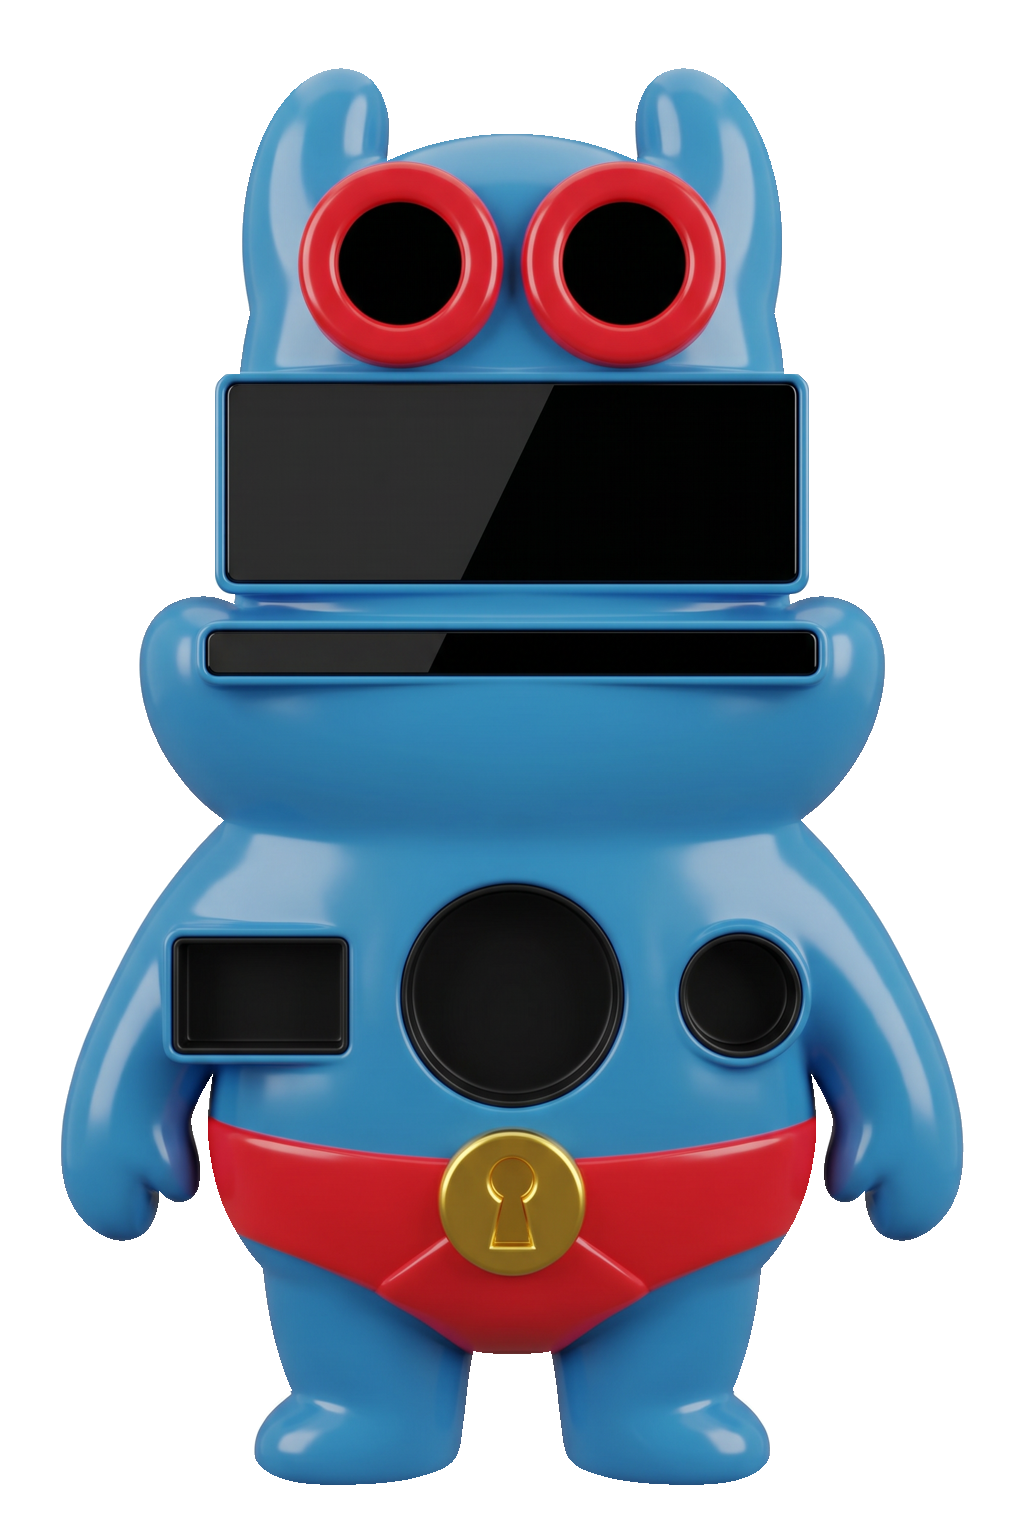
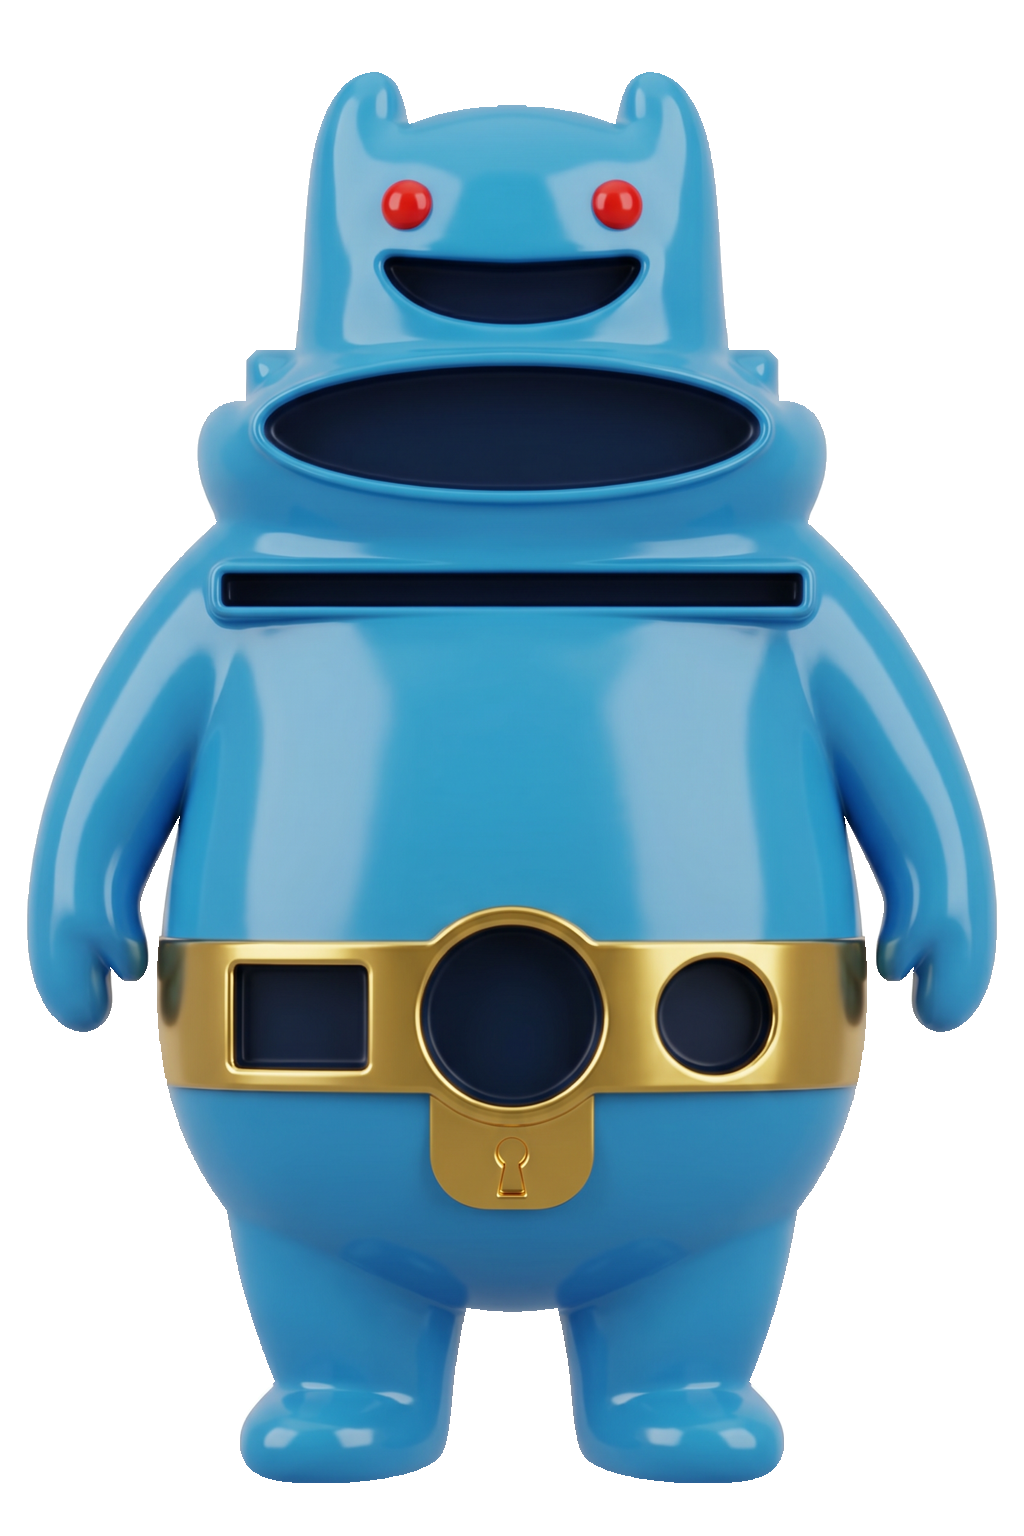
Man Ray: cute baby body, all-red eyes, teeth-grin EQ mouth, gold belt transport
Regenerated the body with small high-set all-red eyes and an open dark mouth
cavity so the red teeth-grin visualizer reads as a grinning mouth instead of a
black square. Transport is now gold molded sprites (shuffle / play-pause / next)
set into the gold keyhole belt; no scrub. Man Ray gets its own gold sprite set
and palette (manray.css) instead of borrowing WMP.

- wild_sculpt.py MATERIAL[manray]: small high all-red eyes + explicit empty dark
  mouth slot below them, gold belt holding the buttons
- gen_sprites.py: gold material for manray switch/button/knob/thumb
- gold molded transport (btn-*) + sprite set generated under public/skins/manray/sprites
- skins.ts: manray is its own style (sprites+molded), corrected blurb
- src/skins/manray.css: gold/red palette; imported in all.ts
- ASSET_VERSION nb20

diff --git a/src/player/skins.ts b/src/player/skins.ts
@@ -55,10 +55,10 @@ export const skinList: SkinAssets[] = [
   { id: "winamp",  name: "Winamp Classic", blurb: "", has: ["frame"], sprites: true, molded: true, hidden: true },
   { id: "toilet",  name: "Porcelain",      blurb: "", has: ["frame"], sprites: true, molded: true, hidden: true },
 
-  // SpongeBob villain — manta-ray head, wide visualizer, lightning-bolt scrub,
-  // shuffle · play · next. Borrows the WMP aqua palette/sprites (cyan suits the
-  // Man Ray emblem). Generated by `wild_sculpt.py manray manray … manray`.
-  { id: "manray",  name: "Man Ray ✦",      blurb: "SpongeBob villain: manta-ray head, lightning scrub", has: ["frame"], live: true, style: "wmp", templateUrl: "/skins/manray/template.json" },
+  // Baby blue creature — red goggle eyes, gold belt, red teeth-grin visualizer,
+  // gold molded transport (shuffle · play · next). Own gold sprites + palette.
+  // Generated by `wild_sculpt.py manray manray … manray` + gold sprite passes.
+  { id: "manray",  name: "Man Ray ✦",      blurb: "Baby blue creature: red goggle eyes, gold belt, teeth-grin EQ", has: ["frame"], live: true, sprites: true, molded: true, templateUrl: "/skins/manray/template.json" },
 
   // absurd ✦ — memetic styles with their own sprites + palettes
   { id: "frog",    name: "Froggo ✦",        blurb: "Glossy rubber meme-frog, orange-dot hardware", has: ["frame"], live: true, sprites: true, molded: true, templateUrl: "/skins/frog/template.json" },
@@ -110,7 +110,7 @@ export function skinBaked(id: string): boolean {
 }
 
 // bump when frames/sprites are regenerated so browsers re-fetch
-const ASSET_VERSION = "nb19";
+const ASSET_VERSION = "nb20";
 const base = (id: string) => `/skins/${id}`;
 export const layerUrl = (id: string, layer: Layer) => `${base(id)}/${layer}.png?v=${ASSET_VERSION}`;
 export const spriteUrl = (id: string, name: string) => `${base(skinStyle(id))}/sprites/${name}.png?v=${ASSET_VERSION}`;

diff --git a/src/skins/manray.css b/src/skins/manray.css
@@ -1,0 +1,18 @@
+[data-skin="manray"] {
+  --ui-font: "Tahoma", "Segoe UI", sans-serif;
+  --lcd-font: "Share Tech Mono", monospace; --ink: #7a1010;
+  --lcd-bg: linear-gradient(180deg,#1a0606,#2a0a0a); --lcd-ink: #ffd9d2; --lcd-ink-dim: #c8857e;
+  --lcd-glow: 0 0 6px rgba(255,90,76,.4); --lcd-radius: 12px;
+  --lcd-inset: inset 0 2px 6px rgba(20,0,0,.6); --lcd-border: 1px solid #b8862f;
+  /* teeth visualizer hardcodes its reds; these cover any linear fallback */
+  --vis-lo: #7d0f0f; --vis-hi: #ff5a4c; --vis-peak: #ffd9d2;
+  --btn-ink: #5a3a06; --sp-btn-ink: #4a2f04; --btn-radius: 50%;
+  --btn-bg: radial-gradient(80% 80% at 50% 28%, #ffe9a8, #d9a23a 75%);
+  --btn-shadow: inset 0 1px 0 #fff3cf, inset 0 0 0 1px rgba(120,80,20,.55), 0 2px 3px rgba(40,20,0,.35);
+  --toggle-on-spark: #ff5a4c; --knob-ind: #d9a23a; --knob-ind-glow: rgba(255,200,90,.7);
+  --rail-bg: #c2a25a; --fill-bg: #ff5a4c; --thumb-bg: linear-gradient(180deg,#ffe9a8,#d9a23a);
+  --thumb-arc: #ff5a4c;
+  --thumb-shadow: inset 0 1px 0 #fff3cf, 0 2px 3px rgba(0,0,0,.3); --thumb-w: 16px; --thumb-h: 12px;
+  --list-ink: #ffd9d2; --list-sel-bg: #c91f1f; --list-sel-ink: #fff;
+  --title-ink: #ffe9a8;
+}

diff --git a/src/skins/all.ts b/src/skins/all.ts
@@ -12,3 +12,4 @@ import "./toilet.css";
 import "./biomech.css";
 import "./wmp.css";
 import "./halo.css";
+import "./manray.css";

diff --git a/generation/wild_sculpt.py b/generation/wild_sculpt.py
@@ -43,11 +43,16 @@ MATERIAL = {
     "biomech": ("H.R. Giger biomechanical nightmare: fused bone and sinew, ribbed chitin tubes wrapping "
                 "the body, vertebrae ridges, wet organic sheen, sickly green-amber bioluminescence "
                 "glowing from the recesses."),
-    "manray":  ("a chubby cartoon BABY creature: smooth glossy CERULEAN-BLUE skin; two oversized round "
-                "goggle eyes high on the head, each a thick BRIGHT-RED rim around a solid BLACK center; a "
-                "RED belt/diaper across the lower body with a shiny GOLD KEYHOLE emblem at its center; soft "
-                "round baby proportions, clean friendly cel-shaded cartoon look. Match the palette and "
-                "character of the reference image."),
+    "manray":  ("an ADORABLE super-cute chubby cartoon BABY creature: smooth glossy CERULEAN-BLUE skin; "
+                "two SMALL round SOLID BRIGHT-RED eyes placed HIGH near the TOP of the head, close together "
+                "(all red, no black, no white) — keep the eyes small and well ABOVE the middle of the face; "
+                "BELOW the eyes, in the CENTER of the face, a wide WIDE-OPEN dark grinning MOUTH cavity "
+                "(an empty dark recessed oval slot — leave it dark and empty, the toothy grin is added "
+                "separately) clearly SEPARATE from the eyes with blue skin between them; a wide shiny GOLD "
+                "BELT band wrapping the lower tummy with a little keyhole motif, the round control buttons "
+                "set into that gold belt; very soft round cute baby proportions, big head, tiny stubby "
+                "limbs, clean friendly cel-shaded look. Match the palette and character of the reference "
+                "image."),
     "winamp":  ("polished chrome and brushed gunmetal over dark charcoal plastic, thin green LED accent "
                 "lines tracing the curves, tiny screws."),
     "frog":    ("glossy moulded rubber toy-frog skin in vivid green with subtle mottling, bulging "
@@ -271,22 +276,23 @@ def layout_manray():
                      "layer": kw.pop("layer", "components"),
                      "rect": {"x": x/W, "y": y/H, "w": w/W, "h": h/H}, **kw})
     cx = W/2
-    # upper head (top ~20%) stays free for the big eyes. The VISUALIZER is the
-    # character's red TEETH-GRIN mouth — a wide screen just below the eyes.
-    vw, vh = W*0.56, H*0.130
-    add("visualizer", "display", cx-vw/2, H*0.25, vw, vh,
+    # upper head stays free for the big red eyes. The VISUALIZER is the red
+    # TEETH-GRIN MOUTH — a wide, short mouth shape on the face (vis=teeth draws it
+    # as a mouth lens, not a square screen).
+    vw, vh = W*0.50, H*0.090
+    add("visualizer", "display", cx-vw/2, H*0.235, vw, vh,
         content="dynamic", layer="screen", dynamicType="visualizer", vis="teeth")
-    # marquee strip under the mouth
-    add("marquee", "display", cx-W*0.30, H*0.41, W*0.60, 46,
+    # marquee strip on the chest
+    add("marquee", "display", cx-W*0.29, H*0.37, W*0.58, 44,
         content="dynamic", layer="screen", dynamicType="marquee")
-    # transport only — SHUFFLE toggle · PLAY/PAUSE (dominant) · NEXT (no scrub)
-    by = H*0.575
-    play_d = W*0.215
+    # transport set INTO the wide gold belt on the lower tummy: SHUFFLE · PLAY · NEXT
+    by = H*0.60
+    play_d = W*0.18
     add("play", "button", cx-play_d/2, by, play_d, play_d, bind="play", label="play", shape="ellipse")
-    nd = W*0.12
-    add("next", "button", cx+play_d/2+W*0.055, by+(play_d-nd)/2, nd, nd, bind="next", label="next", shape="ellipse")
-    tw, th = W*0.17, H*0.075
-    add("shuffle", "toggle", cx-play_d/2-W*0.055-tw, by+(play_d-th)/2, tw, th, bind="shuffle", label="SHUF")
+    nd = W*0.115
+    add("next", "button", cx+play_d/2+W*0.05, by+(play_d-nd)/2, nd, nd, bind="next", label="next", shape="ellipse")
+    tw, th = W*0.135, H*0.07
+    add("shuffle", "toggle", cx-play_d/2-W*0.05-tw, by+(play_d-th)/2, tw, th, bind="shuffle", label="SHUF")
     return regs
 
 def covers(mask, regs):
@@ -540,7 +546,11 @@ def _draw_regions(d, regs):
         elif r["kind"] == "knob" or (r["kind"] == "button" and r.get("shape") == "ellipse"):
             d.ellipse([x0, y0, x1, y1], fill=WELL, outline=EDGE, width=4)
         elif r["kind"] == "display":
-            if r.get("shape") == "ellipse":
+            if r.get("vis") == "teeth":
+                # the teeth-grin visualizer is a MOUTH, not a screen — a wide dark
+                # lens so the painted recess reads as an open grinning mouth
+                d.ellipse([x0, y0, x1, y1], fill=(20, 6, 6), outline=(120, 20, 20), width=6)
+            elif r.get("shape") == "ellipse":
                 d.ellipse([x0, y0, x1, y1], fill=(12, 13, 15), outline=EDGE, width=6)
             else:
                 d.rounded_rectangle([x0, y0, x1, y1], radius=12, fill=(12, 13, 15), outline=EDGE, width=5)

diff --git a/generation/gen_sprites.py b/generation/gen_sprites.py
@@ -39,6 +39,7 @@ MAT = {
     "biomech": "H.R. Giger biomechanical body-horror: fused bone, sinew and chitin, ribbed organic tubes, wet sheen, sickly green-amber glow in crevices.",
     "wmp":  "Windows Media Player 9 / XP Luna era: glossy silver-white plastic capsule shells, translucent aqua-blue gel, chrome rims, soft blue-white gradients.",
     "halo": "Halo 2 UNSC military hardware: olive-drab armored metal plating, scuffed edges, hex bolts, amber-orange holographic accents and warning chevrons.",
+    "manray": "shiny polished GOLD metal: bright reflective gold/brass with warm specular highlights, soft rounded bevels, a cute chunky toy-like finish.",
 }
 
 # per-style switch DESIGNS — distinct hardware, not one archetype recolored
